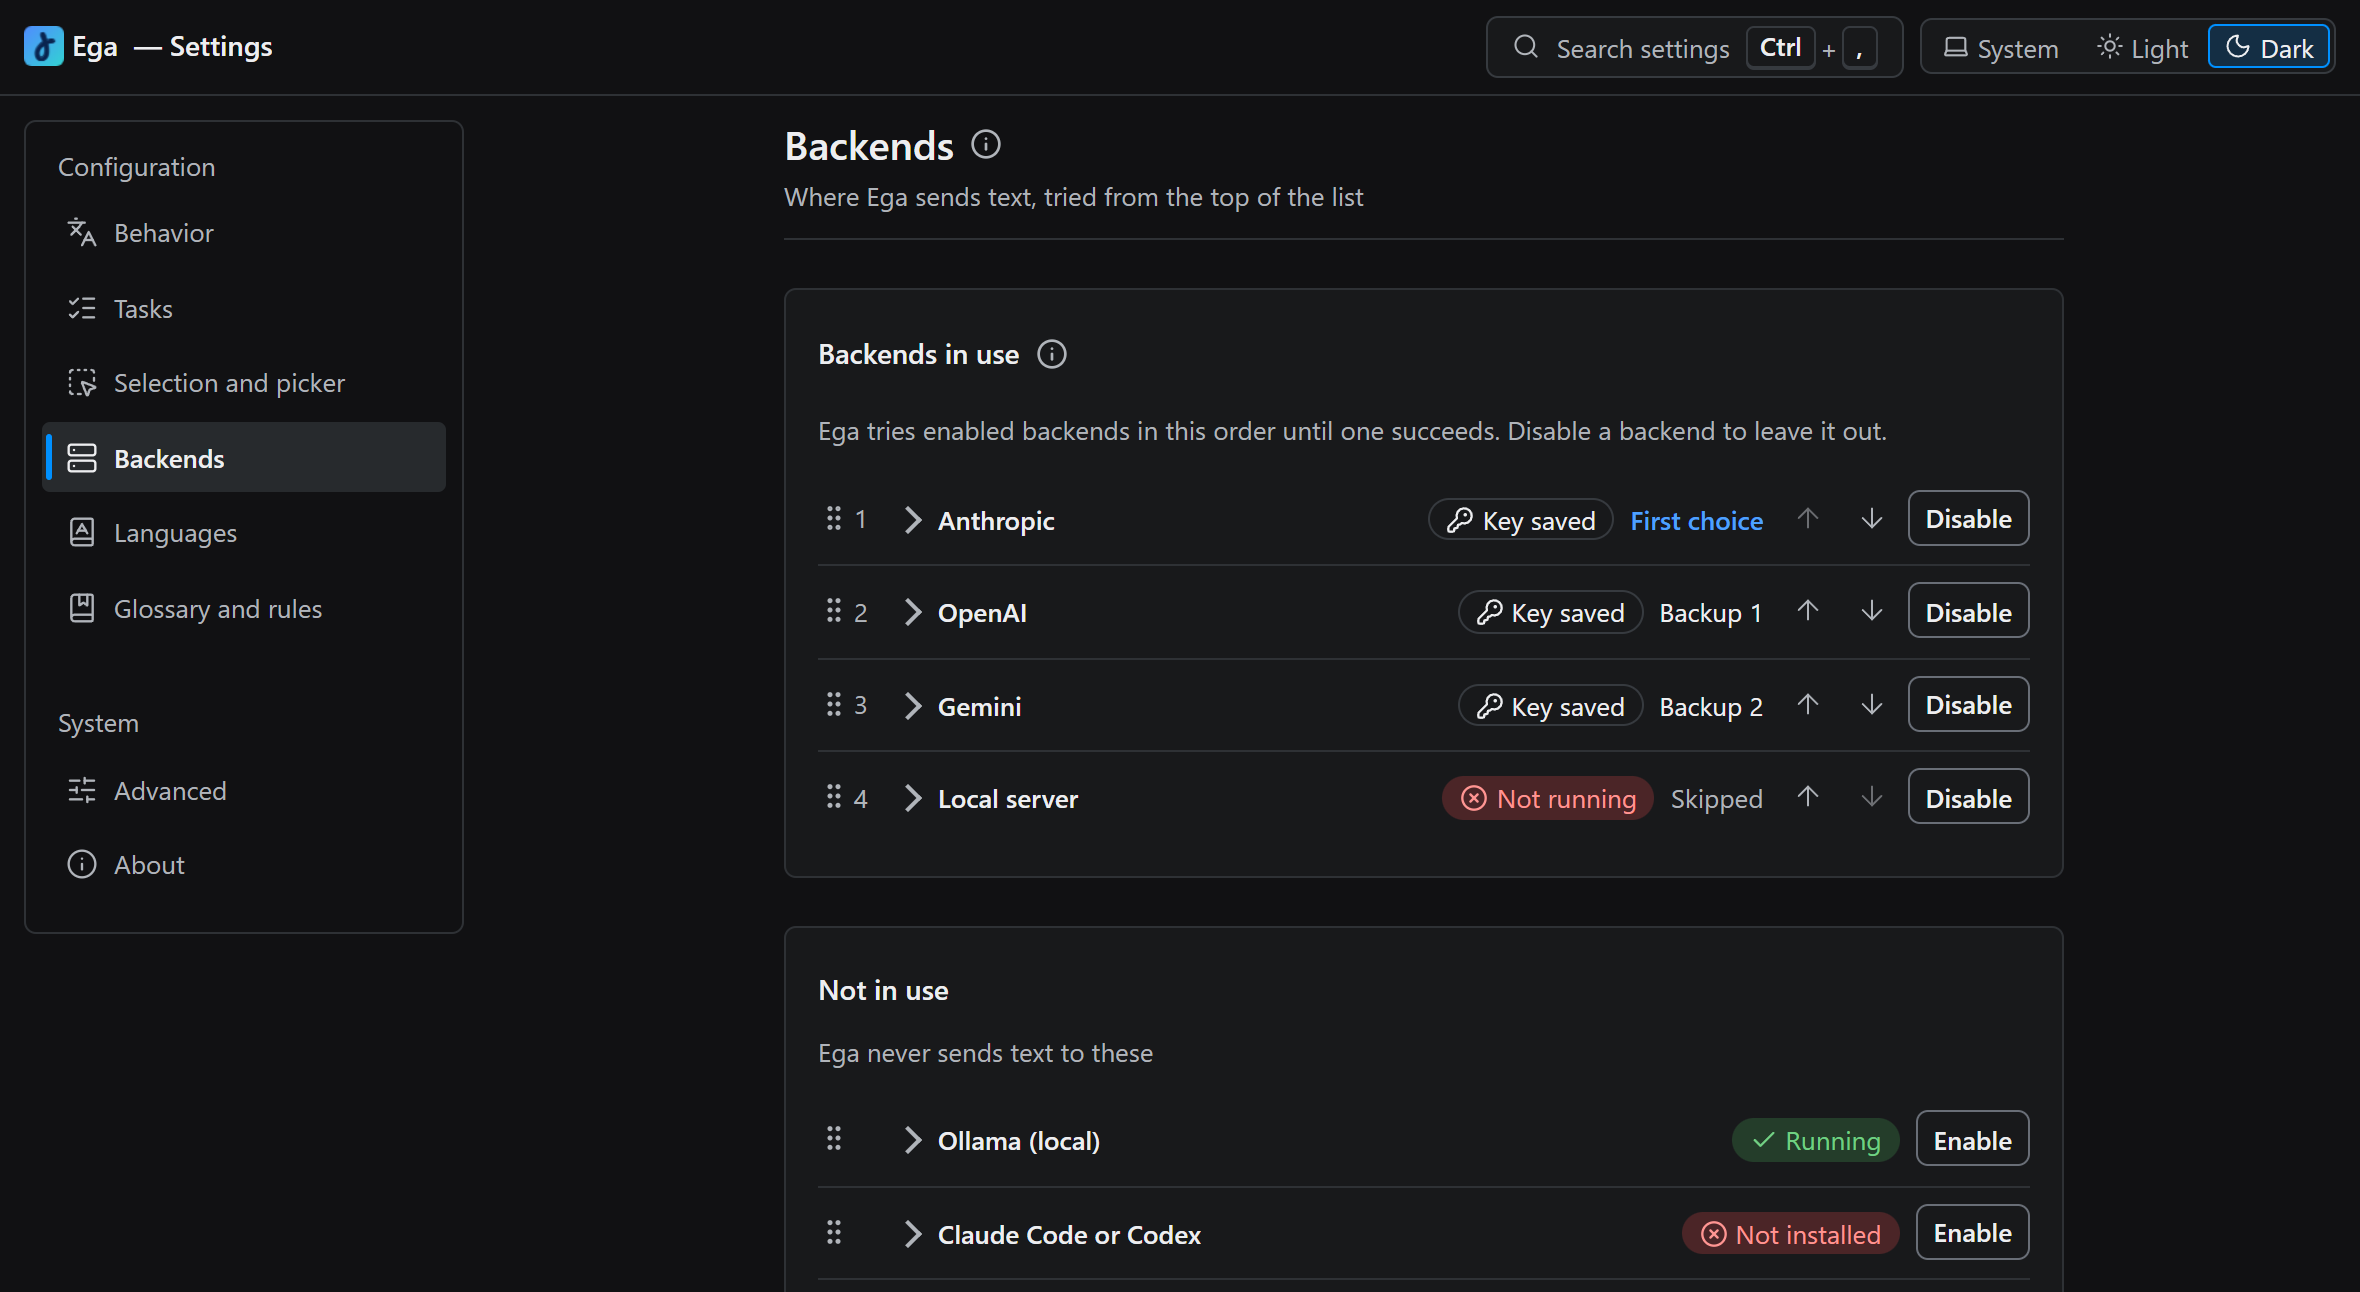
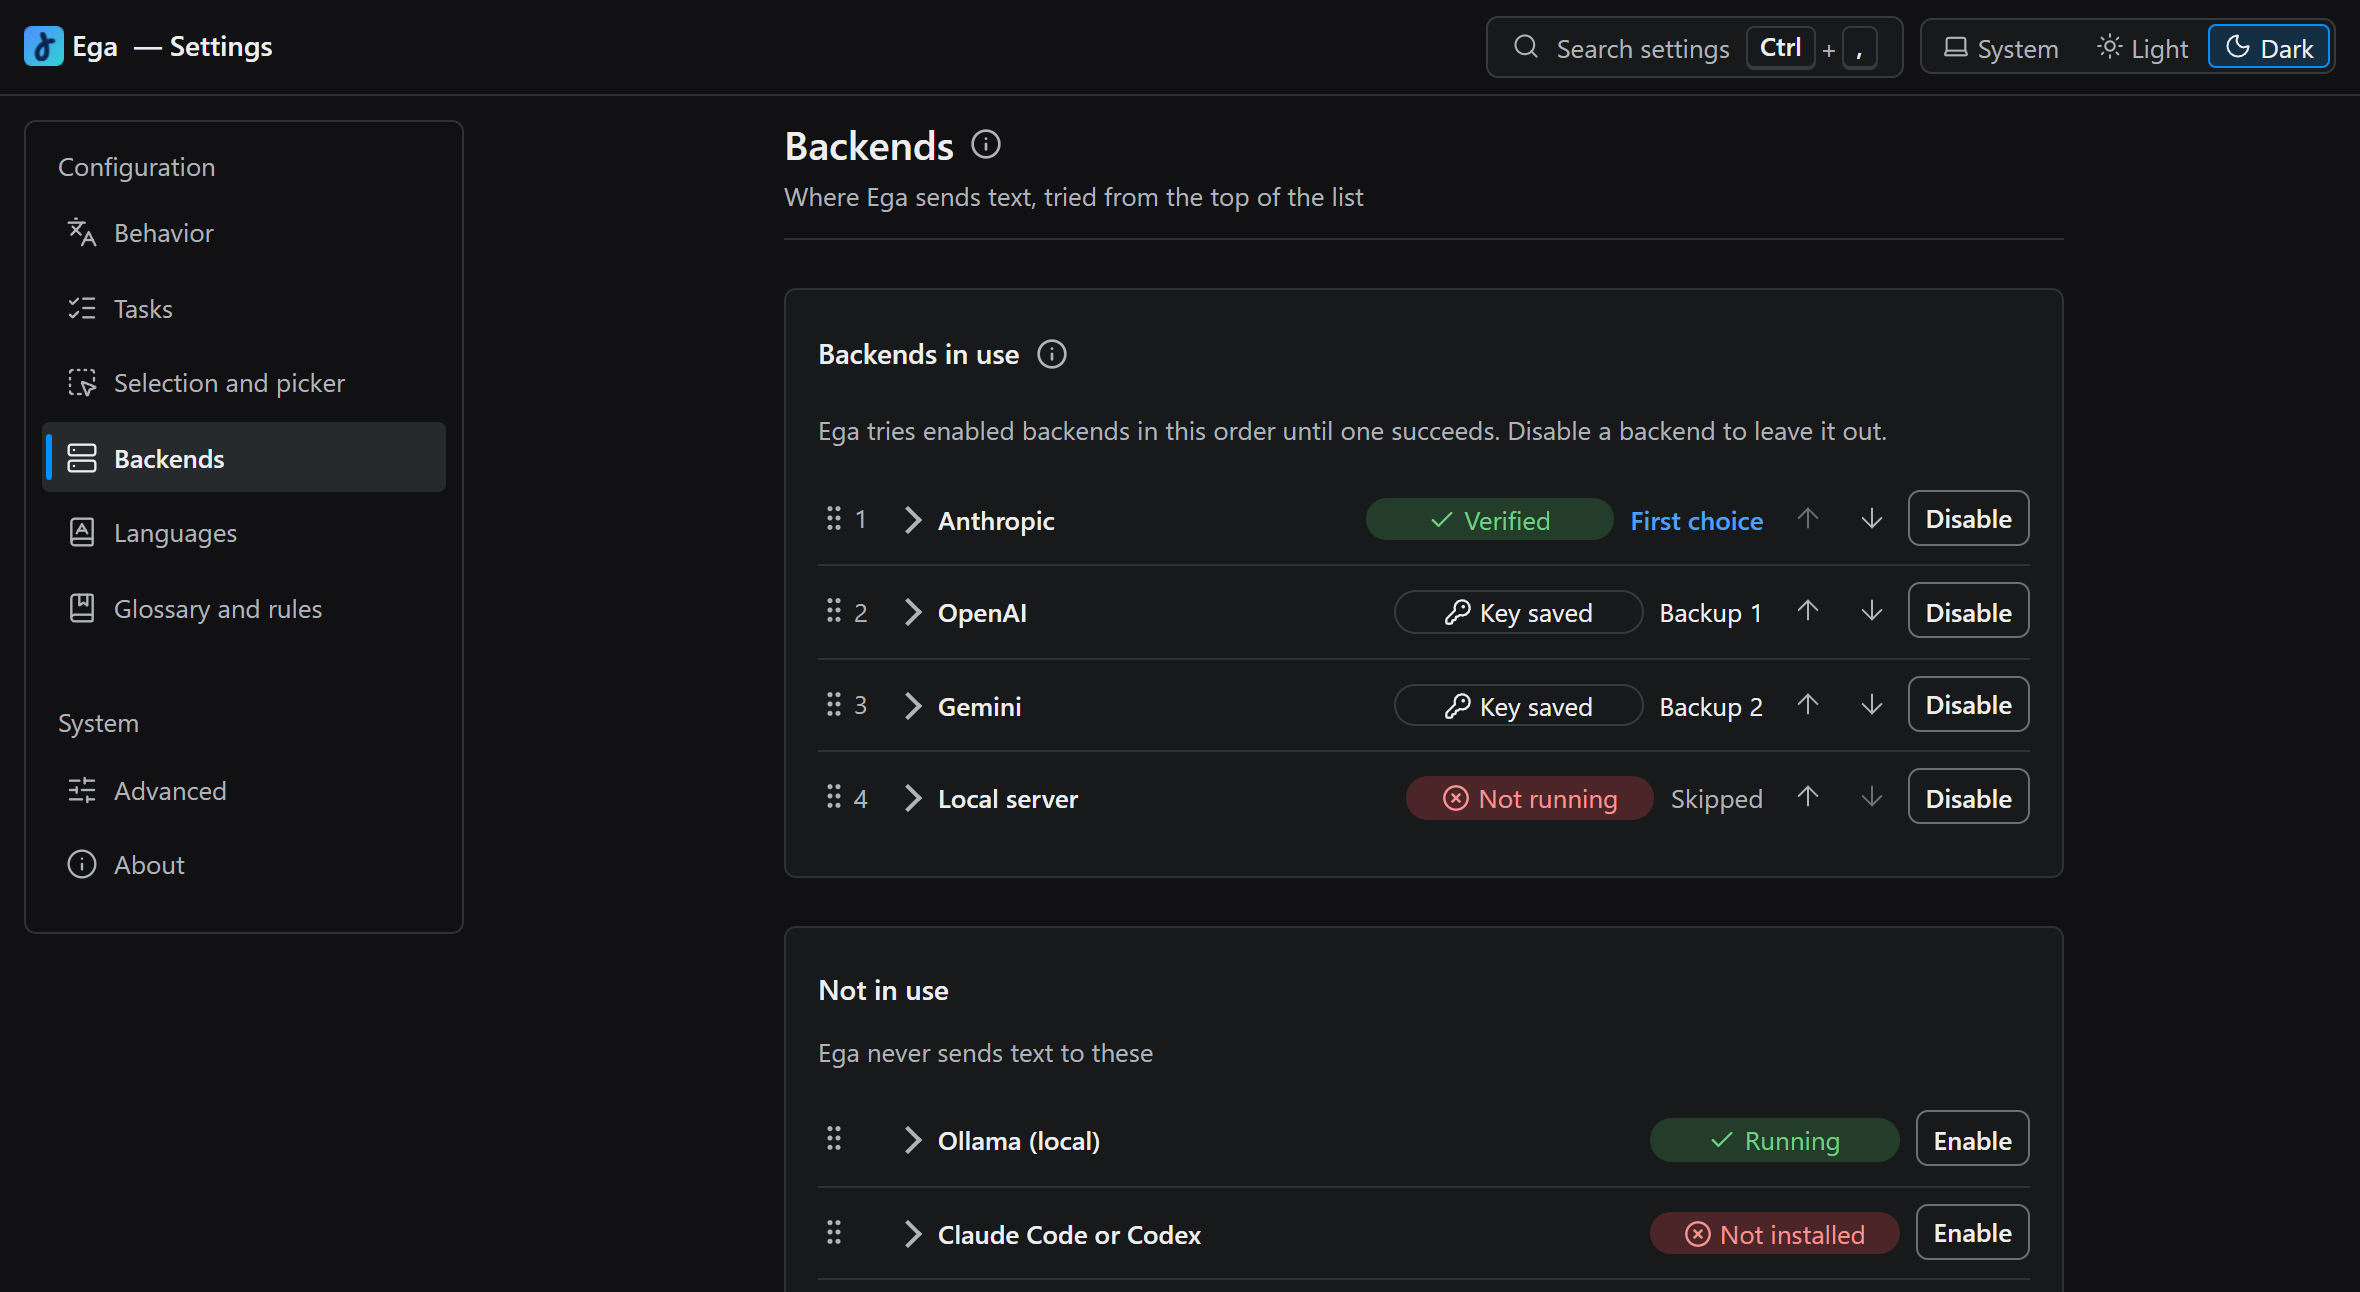
docs(readme): lead with the selection bubble and a verified backend
- Hero shows the bubble on a selection, then the tooltip a click on it opens
- Install step tells the user to click the bubble; the shortcut is secondary
- Backends table moves to docs/BACKENDS.md; the README links to it
- Backends shot runs a passing Test first, so Anthropic reads Verified
- Showcase forum user is el-f; the spec now uses the default Smart bubble mode
- Node versions and the fallback-chain rule now match package.json and error-policy.ts

diff --git a/tests/e2e/showcase.spec.ts b/tests/e2e/showcase.spec.ts
@@ -1,4 +1,4 @@
-import { test, type Page } from '@playwright/test';
+import { test, expect, type Page } from '@playwright/test';
 import {
   launchExtension,
   mockAnthropic,
@@ -62,7 +62,6 @@ const READY_SEED = {
   contextEnabled: true,
   streaming: true,
   defaultDisplayMode: 'tooltip' as const,
-  bubbleMode: 'never' as const,
   smartBubbleBannerShown: true,
 };
 
@@ -74,7 +73,7 @@ async function save(page: Page, name: string, clip?: Clip): Promise<void> {
   await page.screenshot({ path: path.join(MEDIA_DIR, `${name}.png`), ...(clip ? { clip } : {}) });
 }
 
-test('README — tooltip answering on a page', async () => {
+test('README — bubble on a selection, then the tooltip it opens', async () => {
   test.slow();
   await seedSettings(ext.context, ext.extensionId, READY_SEED);
   await resetRoutes(ext.context);
@@ -90,7 +89,21 @@ test('README — tooltip answering on a page', async () => {
   await waitForTestHooks(page);
   await page.locator('body').focus();
   await selectArabiziParagraph(page);
-  await page.keyboard.press('Control+Shift+L');
+  const bubble = page.locator('#ega-shadow-host .bubble');
+  await expect(bubble).toBeVisible({ timeout: 5_000 });
+  await page.waitForTimeout(200); // wait for the bubble's 120 ms pop animation (no observable end state)
+  const bubbleBox = await bubble.boundingBox();
+  if (!bubbleBox) throw new Error('bubble has no box — refusing to ship a shot without it');
+  const main = await page.locator('main').boundingBox();
+  if (!main) throw new Error('page column not found');
+  await save(page, 'bubble', {
+    x: main.x,
+    y: 0,
+    width: main.width,
+    height: Math.min(640, bubbleBox.y + bubbleBox.height + 120),
+  });
+
+  await bubble.click();
   await page.waitForFunction(
     (needle) => {
       const host = document.querySelector('#ega-shadow-host');
@@ -182,6 +195,8 @@ test('README — side panel holding a conversation', async () => {
 test('README — Backends tab with configured providers', async () => {
   test.slow();
   await seedSettings(ext.context, ext.extensionId, READY_SEED);
+  await resetRoutes(ext.context);
+  mockAnthropic(ext.context, { translation: 'Hello, how are you?' });
   // A green Ollama dot on every machine, not only where a daemon happens to run.
   await ext.context.route('http://localhost:11434/api/tags', (route) =>
     route.fulfill({ status: 200, contentType: 'application/json', body: '{"models":[]}' }),
@@ -191,9 +206,24 @@ test('README — Backends tab with configured providers', async () => {
   await opts.goto(`chrome-extension://${ext.extensionId}/src/options/index.html`);
   await opts.waitForLoadState('networkidle');
   await opts.locator('#tab-backends').click();
+  // A passed Test is what a set-up user has seen, so the first choice reads Verified, not Key saved.
+  const anthropic = opts.locator('details[data-backend-id="anthropic"]');
+  await anthropic.locator('summary').click();
+  await opts.getByTestId('backend-card-test-anthropic').click();
+  await expect(anthropic.locator('[data-ega-backend-status]')).toHaveAttribute(
+    'data-ega-backend-status',
+    'Verified',
+    { timeout: 15_000 },
+  );
+  await opts.reload();
+  await opts.locator('#tab-backends').click();
+  await expect(anthropic.locator('[data-ega-backend-status]')).toHaveAttribute(
+    'data-ega-backend-status',
+    'Verified',
+    { timeout: 5_000 },
+  );
   // Long enough for every card's isAvailable probe to settle, so no pill is left mid-probe.
   await opts.waitForTimeout(2500);
-  await opts.locator('[data-backend-id="anthropic"]').first().waitFor({ state: 'visible' });
   // End the shot on a whole row: the three active providers and the first three available ones.
   const bottom = await opts.evaluate(() => {
     const rows = [...document.querySelectorAll('[data-backend-id]')]

diff --git a/tests/e2e/fixtures/showcase-page.html b/tests/e2e/fixtures/showcase-page.html
@@ -81,14 +81,14 @@
       <h1>First week in Beirut — phrases that helped</h1>
       <p class="sub">42 replies · posted 3 days ago</p>
       <article>
-        <p class="who"><b>wanderlog</b> · 3 days ago</p>
+        <p class="who"><b>el-f</b> · 3 days ago</p>
         <p>
           Everyone at the guesthouse texts in Latin letters with numbers mixed in. The host texted
           me this on my first evening and I had no idea what it said:
         </p>
       </article>
       <article>
-        <p class="who"><b>wanderlog</b> · 3 days ago</p>
+        <p class="who"><b>el-f</b> · 3 days ago</p>
         <p id="arabizi">mar7aba, kifak? shu 3am ta3mel?</p>
       </article>
       <article>

diff --git a/README.md b/README.md
@@ -9,11 +9,13 @@
 and no guarantee. Use it at your own risk, and expect rough edges.
 
 <p align="center">
-  <img src="docs/media/tooltip.png" alt="A dark travel-forum page with the Arabizi line mar7aba, kifak? shu 3am ta3mel? selected, and Ega's tooltip below it showing Hi, how are you? What are you up to? with a 96% confidence score and the detected language, Arabizi — Levantine" width="560">
+  <img src="docs/media/bubble.png" alt="A dark travel-forum page with the Arabizi line mar7aba, kifak? shu 3am ta3mel? selected, and Ega's floating Translate bubble next to the selection" width="420">
+  &nbsp;
+  <img src="docs/media/tooltip.png" alt="The same page after a click on the bubble: Ega's tooltip below the line shows Hi, how are you? What are you up to? with a 96% confidence score and the detected language, Arabizi — Levantine" width="420">
 </p>
 
-Select `mar7aba, kifak? shu 3am ta3mel?`, press `Ctrl+Shift+L`, get **Hi, how are you? What are
-you up to?** A plain translator usually gives the letters back unchanged.
+Select `mar7aba, kifak? shu 3am ta3mel?`, click the **Translate to English** bubble that appears, get **Hi,
+how are you? What are you up to?** A plain translator usually gives the letters back unchanged.
 
 It is for you if a plain translator cannot handle your language or dialect, you already have an
 LLM (a Gemini, Anthropic or OpenAI key, Ollama, LM Studio or llama-server, or a local `claude` /
@@ -40,8 +42,8 @@ LLM (a Gemini, Anthropic or OpenAI key, Ollama, LM Studio or llama-server, or a 
 
 ## Install
 
-Not on the Chrome Web Store yet. Load it unpacked. You need Node 22.22.2 or newer (24.15 or newer
-on the 24 line), pnpm 10 (`corepack enable` picks up the pinned version) and Chrome 123 or newer.
+Not on the Chrome Web Store yet. Load it unpacked. You need Node 22.22.2 or newer on the 22 line,
+24.15 or newer on the 24 line, or Node 26 and up; pnpm 10 (`corepack enable` picks up the pinned version) and Chrome 123 or newer.
 
 ```bash
 git clone https://github.com/el-f/ega.git
@@ -59,44 +61,28 @@ Open `chrome://extensions`, turn on **Developer mode**, choose **Load unpacked**
 2. **Check that the provider sits under Backends in use.** Only Anthropic, Gemini and the native
    host start enabled. Every other provider is never called until you press **Enable** on its card.
 
-Reload a tab you already had open, select text on it and press `Ctrl+Shift+L` (`Cmd+Shift+L` on
-macOS). Something not working? See [Troubleshooting](docs/TROUBLESHOOTING.md).
+Reload a tab you already had open and select a line that is not plain English: the bubble appears
+next to it. Click it. The shortcut `Ctrl+Shift+L` (`Cmd+Shift+L` on macOS) works on any selection,
+English too. Something not working? See [Troubleshooting](docs/TROUBLESHOOTING.md).
 
 ## Backends
 
-Ten cloud providers, two kinds of local server, and a bridge to a CLI you already have.
-
-| Backend             | Kind                                    | What it needs                             | Images        |
-| ------------------- | --------------------------------------- | ----------------------------------------- | ------------- |
-| Anthropic           | Cloud                                   | An API key                                | Yes           |
-| OpenAI              | Cloud                                   | An API key                                | Yes           |
-| Google Gemini       | Cloud                                   | An API key                                | Yes           |
-| OpenRouter          | Cloud                                   | An API key                                | Yes           |
-| Groq                | Cloud                                   | An API key                                | No            |
-| DeepSeek            | Cloud                                   | An API key                                | No            |
-| Together            | Cloud                                   | An API key                                | No            |
-| Mistral             | Cloud                                   | An API key                                | No            |
-| xAI                 | Cloud                                   | An API key                                | No            |
-| Fireworks           | Cloud                                   | An API key                                | No            |
-| Ollama              | Local; a cloud model runs on ollama.com | A daemon on loopback + `ollama pull`      | Vision models |
-| Local server        | Local: LM Studio or llama-server        | The server running on loopback, no key    | Vision models |
-| `claude` or `codex` | Existing CLI                            | The CLI installed and the host registered | Yes           |
+Ten cloud providers, two kinds of local server, and a bridge to a `claude` or `codex` CLI you
+already have. [`docs/BACKENDS.md`](docs/BACKENDS.md) lists each one, what it needs and whether it
+reads images.
 
 <p align="center">
-  <img src="docs/media/backends.png" alt="Ega's Settings page on the Backends tab in dark mode: Anthropic, OpenAI, Gemini and a local server under Backends in use, each with its place in the order, a status word and its route (First choice, Backup 1, Backup 2, Skipped), and Ollama and the native host under Not in use" width="820">
+  <img src="docs/media/backends.png" alt="Ega's Settings page on the Backends tab in dark mode: Anthropic, OpenAI, Gemini and a local server under Backends in use, each with its place in the order, a status word (Anthropic reads Verified after a passed test) and its route (First choice, Backup 1, Backup 2, Skipped), and Ollama and the native host under Not in use" width="820">
 </p>
 
 - **One fallback chain.** Order your enabled backends; when one fails Ega moves to the next. A
-  malformed reply, an unsupported request, or a failure after the answer started streaming stops
-  the walk instead.
-- **Images** skip every backend that cannot read them. On a right-click image with no image-capable
-  backend, Ega stops and says so.
+  malformed reply gets one more try on the same backend first. An invalid or unsupported request,
+  an unknown error, or a failure after the answer started streaming stops the walk instead.
 - **Cost:** a cloud request is billed to your own key. "Translate page" sends one request per text
   block as you scroll to it, and a failed request can go on to the next backend, which may be paid
   too. Enable only the providers you want Ega to use.
 - **The `claude` or `codex` CLI** answers through your existing login, so a plan that includes it
-  costs nothing extra; requests count against its usage limits. Set it up with
-  [`docs/INSTALL_NATIVE_HOST.md`](docs/INSTALL_NATIVE_HOST.md).
+  costs nothing extra; requests count against its usage limits.
 
 ## Make it yours
 

diff --git a/docs/BACKENDS.md b/docs/BACKENDS.md
@@ -1,0 +1,29 @@
+# Backends
+
+Ega sends each request to a backend you choose: ten cloud providers, two kinds of local server, and a
+bridge to a `claude` or `codex` CLI you already have. Set them up in Settings → **Backends**.
+
+| Backend             | Kind                                    | What it needs                             | Images        |
+| ------------------- | --------------------------------------- | ----------------------------------------- | ------------- |
+| Anthropic           | Cloud                                   | An API key                                | Yes           |
+| OpenAI              | Cloud                                   | An API key                                | Yes           |
+| Google Gemini       | Cloud                                   | An API key                                | Yes           |
+| OpenRouter          | Cloud                                   | An API key                                | Yes           |
+| Groq                | Cloud                                   | An API key                                | No            |
+| DeepSeek            | Cloud                                   | An API key                                | No            |
+| Together            | Cloud                                   | An API key                                | No            |
+| Mistral             | Cloud                                   | An API key                                | No            |
+| xAI                 | Cloud                                   | An API key                                | No            |
+| Fireworks           | Cloud                                   | An API key                                | No            |
+| Ollama              | Local; a cloud model runs on ollama.com | A daemon on loopback + `ollama pull`      | Vision models |
+| Local server        | Local: LM Studio or llama-server        | The server running on loopback, no key    | Vision models |
+| `claude` or `codex` | Existing CLI                            | The CLI installed and the host registered | Yes           |
+
+- **Which start enabled:** Anthropic, Gemini and the native host. Every other provider is never
+  called until you press **Enable** on its card.
+- **Verified:** a cloud provider's card reads "Key saved" until you press **Test** and the test
+  passes. Then it reads "Verified". A new key or model clears it.
+- **Images** skip every backend that cannot read them. On a right-click image with no image-capable
+  backend, Ega stops and says so.
+- **The `claude` or `codex` CLI** answers through your existing login. Set it up with
+  [`INSTALL_NATIVE_HOST.md`](INSTALL_NATIVE_HOST.md).
